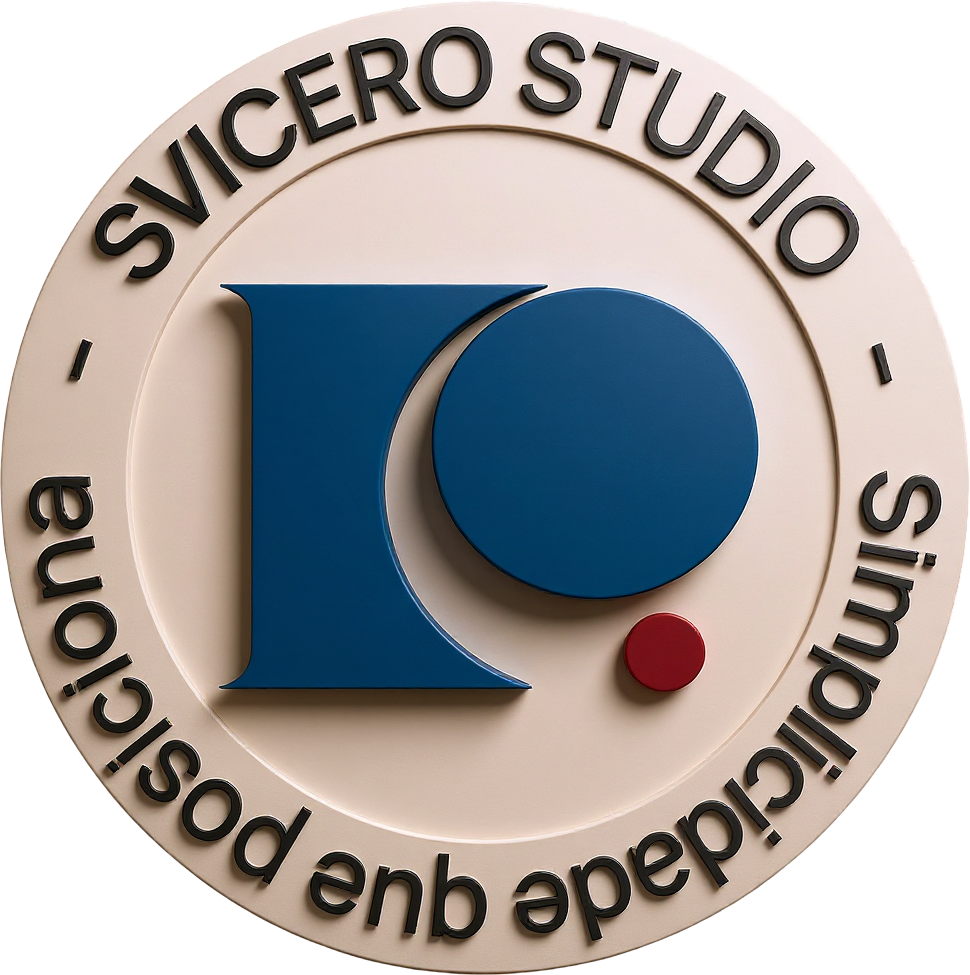
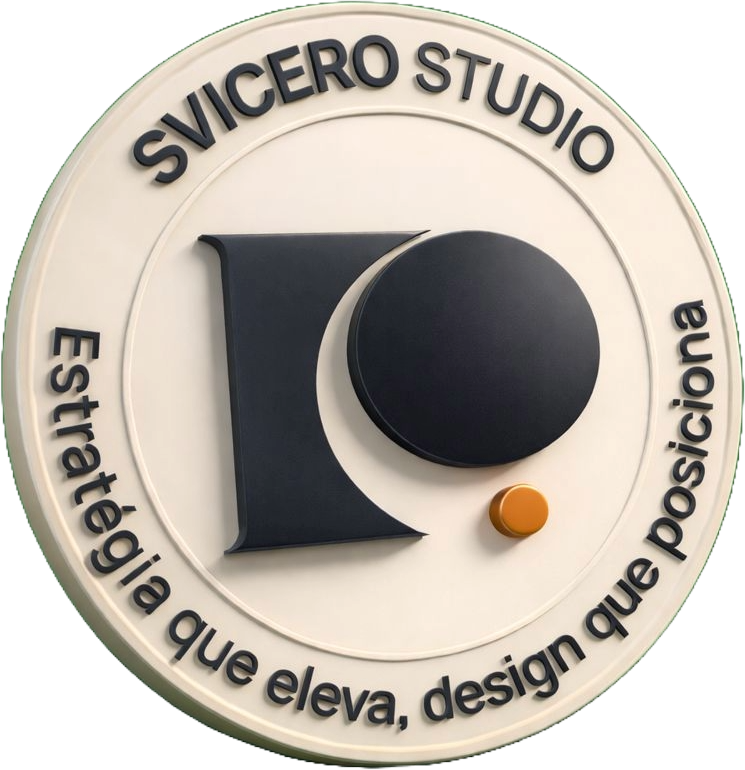
feat: add Diagnostico page with embedded JotForm for strategic diagnosis

diff --git a/src/pages/Home.jsx b/src/pages/Home.jsx
@@ -32,7 +32,7 @@ const Home = () => {
       alt: 'Card UI designer',
       badge: { text: 'UI & UX', className: 'ui-ux text-[15px] font-medium text-[#094C7E] bg-[#EAF4F6]' },
       title: 'Experiências fluidas que removem as barreiras entre você e seu cliente.',
-      link: '/servico-uiux-design'
+      link: '/servico-ui-design'
     },
     {
       img: developer,
@@ -292,8 +292,8 @@ const Home = () => {
             <h1 className="font-title font-extralight text-cream text-5xl md:text-6xl lg:text-7xl tracking-wide mb-6 drop-shadow-lg">O design que transforma sua autoridade <br /> em valor de mercado.</h1>
             <p className="font-sans text-cream text-xl md:text-2xl lg:text-3xl font-light tracking-wide mb-10 max-w-5xl">Unimos Branding Estratégico e UX Design para criar marcas líderes. Simplicidade que posiciona e converte.</p>
             <Button
-              href="https://wa.me/5511964932007"
-              variant="primary"
+              href="https://form.jotform.com/253516622262655"
+              variant="secondary"
               target="_blank"
               rel="noopener noreferrer"
             >Solicitar Diagnóstico de Marca</Button>
@@ -391,7 +391,7 @@ const Home = () => {
             <div className="text-center pt-8">
               <Button
                 href="https://form.jotform.com/253516622262655"
-                variant="primary"
+                variant="secondary"
                 target="_blank"
                 className="inline-block mt-8"
               >
@@ -494,11 +494,13 @@ const Home = () => {
             </div>
             <div className="flex justify-center mt-8">
               <Button
-                href="/agenda"
+                href="https://form.jotform.com/253516622262655"
                 variant="secondary"
-                icon={<i className="fa-regular fa-calendar"></i>}
-                className="mb-16 px-8 py-4 text-lg w-full lg:w-[40%]"
-              >Agendar Conversa</Button>
+                className="inline-block mt-8"
+                target="_blank"
+                rel="noopener noreferrer"
+              >Solicitar Diagnóstico Estratégico
+              </Button>
             </div>
           </div>
         </section>
@@ -543,7 +545,7 @@ const Home = () => {
         )}
 
         {/* CTA Final */}
-        <section className="w-full bg-primary overflow-hidden">
+        <section className="w-full bg-secondary overflow-hidden">
           <div className="max-w-screen-xl mx-auto flex flex-col md:flex-row items-stretch">
             {/* Imagem - aparece primeiro em mobile */}
             <div className="w-full md:w-1/2 order-1 md:order-2">
@@ -560,7 +562,7 @@ const Home = () => {
               <Button
                 href="https://form.jotform.com/253516622262655"
                 variant="custom"
-                className="border-2 border-cream text-cream hover:text-primary transition-colors inline-block mt-8"
+                className="border-2 border-cream text-cream hover:text-secondary transition-colors inline-block mt-8"
                 target="_blank"
                 rel="noopener noreferrer"
               >Solicitar Diagnóstico Estratégico
@@ -635,7 +637,7 @@ const Home = () => {
                 <div className="text-center">
                   <Button
                     href="/blog"
-                    variant="primary"
+                    variant="secondary"
                     icon={<i className="fa-solid fa-arrow-right"></i>}
                     className="px-8 py-4 text-lg"
                   >

diff --git a/src/pages/Diagnostico.jsx b/src/pages/Diagnostico.jsx
@@ -1,0 +1,46 @@
+import React from 'react';
+import Header from '../components/Layout/Header';
+import Footer from '../components/Layout/Footer';
+
+const Diagnostico = () => {
+  return (
+    <div className="bg-cream min-h-screen">
+      <Header variant="solid" />
+      <main className="pt-28">
+        <section className="py-24 px-4 md:px-16">
+          <div className="max-w-screen-xl mx-auto">
+            <div className="flex flex-col items-center text-center">
+              <h1 className="font-title text-4xl md:text-5xl text-primary mb-8">
+                Diagnóstico Estratégico
+              </h1>
+              <p className="font-body text-lg text-secondary mb-12 max-w-3xl">
+                Preencha o formulário abaixo para receber seu diagnóstico estratégico personalizado.
+              </p>
+              <div className="w-full">
+                <iframe
+                  id="JotFormIFrame-253516622262655"
+                  title="Diagnóstico Svicero Studio"
+                  onLoad={() => window.parent.scrollTo(0,0)}
+                  allowTransparency="true"
+                  allow="geolocation; microphone; camera; fullscreen; payment"
+                  src="https://form.jotform.com/253516622262655"
+                  frameBorder="0"
+                  style={{minWidth: '100%', maxWidth: '100%', height: '539px', border: 'none'}}
+                  scrolling="no"
+                  className="rounded-xl shadow-lg"
+                />
+                <script src='https://cdn.jotfor.ms/s/umd/latest/for-form-embed-handler.js'></script>
+                <script dangerouslySetInnerHTML={{
+                  __html: `window.jotformEmbedHandler("iframe[id='JotFormIFrame-253516622262655']", "https://form.jotform.com/")`
+                }} />
+              </div>
+            </div>
+          </div>
+        </section>
+      </main>
+      <Footer />
+    </div>
+  );
+};
+
+export default Diagnostico;

diff --git a/src/components/Preloader.jsx b/src/components/Preloader.jsx
@@ -40,7 +40,7 @@ const Preloader = () => {
         </div>
 
         {/* Logo com animação */}
-        <div className="relative z-10 animate-scale-fade">
+        <div className="relative z-10 animate-elastic-grow">
           <img 
             src={logoPreloader} 
             alt="Svicero Studio" 
@@ -68,14 +68,23 @@ const Preloader = () => {
       </div>
 
       <style>{`
-        @keyframes scale-fade {
-          0%, 100% {
-            transform: scale(1);
-            opacity: 1;
+        @keyframes elastic-grow {
+          0% {
+            transform: scale(0);
+            opacity: 0;
           }
           50% {
-            transform: scale(1.05);
-            opacity: 0.9;
+            opacity: 1;
+          }
+          70% {
+            transform: scale(1.1);
+          }
+          85% {
+            transform: scale(0.95);
+          }
+          100% {
+            transform: scale(1);
+            opacity: 1;
           }
         }
 
@@ -99,8 +108,10 @@ const Preloader = () => {
           }
         }
 
-        .animate-scale-fade {
-          animation: scale-fade 2s ease-in-out infinite;
+        .animate-elastic-grow {
+          animation: elastic-grow 1.2s cubic-bezier(0.68, -0.55, 0.265, 1.55) forwards;
+          transform: scale(0);
+          opacity: 0;
         }
 
         .animate-progress {

diff --git a/src/components/Layout/Header.jsx b/src/components/Layout/Header.jsx
@@ -2,8 +2,8 @@ import React, { useState, useEffect } from 'react';
 import { useNavigate, useLocation } from 'react-router-dom';
 import Button from '../UI/Button';
 
-import logoBranco from '../../images/logo_alternativo 4.png';
-import logoAzul from '../../images/logo_alternativo 1.png';
+import logoBranco from '../../images/simbolo 3.png';
+import logoAzul from '../../images/simbolo 1.png';
 
 const Header = ({ variant = 'transparent' }) => {
   const [scrolled, setScrolled] = useState(false);
@@ -100,13 +100,13 @@ const Header = ({ variant = 'transparent' }) => {
               Blog
             </a>
             <Button
-              href="/agenda"
-              variant="secondary"
-              icon={<i className="fa-regular fa-calendar"></i>}
-              className="ml-4 px-6 py-2 text-base font-semibold"
-            >
-              Agendar Conversa
-            </Button>
+                href="https://form.jotform.com/253516622262655"
+                variant="secondary"
+                className="inline-block"
+                target="_blank"
+                rel="noopener noreferrer"
+              >Solicitar Diagnóstico Estratégico
+              </Button>
           </nav>
 
           {/* Menu Mobile */}

diff --git a/src/App.jsx b/src/App.jsx
@@ -4,6 +4,7 @@ import { AuthProvider } from './contexts/AuthContext';
 import ProtectedRoute from './components/ProtectedRoute';
 import Home from './pages/Home';
 import Schedule from './pages/Schedule';
+import Diagnostico from './pages/Diagnostico';
 import ServiceFrontEnd from './pages/ServiceFrontEnd';
 import ServiceIdentidadeVisual from './pages/ServiceIdentidadeVisual';
 import ServiceUIUXDesign from './pages/ServiceUIUXDesign';
@@ -27,6 +28,7 @@ function App() {
           <Routes>
             <Route path="/" element={<Home />} />
           <Route path="/agenda" element={<Schedule />} />
+          <Route path="/diagnostico" element={<Diagnostico />} />
           <Route path="/servico-front-end" element={<ServiceFrontEnd />} />
           <Route path="/servico-identidade-visual" element={<ServiceIdentidadeVisual />} />
           <Route path="/servico-ui-design" element={<ServiceUIUXDesign />} />

diff --git a/src/components/UI/Card.jsx b/src/components/UI/Card.jsx
@@ -61,8 +61,8 @@ Card.Actions = ({ children, className = '' }) => (
 
 Card.Button = ({ children, href, variant = 'outline', className = '' }) => {
   const variantClasses = {
-    outline: 'border-2 border-primary text-cream hover:bg-primary hover:border-primary',
-    filled: 'bg-primary text-cream hover:bg-primary/80',
+    outline: 'border-2 border-primary text-cream hover:bg-secondary hover:border-secondary',
+    filled: 'bg-primary text-cream hover:bg-secondary/80',
   };
   return (
     <a

diff --git a/src/components/UI/Button.jsx b/src/components/UI/Button.jsx
@@ -74,7 +74,7 @@ const Button = ({
 
   // Cor do preenchimento animado
   let fillColor = '#042C5A'; // primary
-  if (variant === 'secondary') fillColor = '#5C0028'; // secondary
+  if (variant === 'secondary') fillColor = '#844219'; // secondary
   else if (variant === 'outline') fillColor = '#FFF8F0'; // cream
   else if (variant === 'custom') fillColor = '#FFF8F0'; // cream
   

diff --git a/tailwind.config.js b/tailwind.config.js
@@ -7,9 +7,9 @@ export default {
   theme: {
     extend: {
       colors: {
-        primary: '#094C7E',
-        secondary: '#800020',
-        secondary300: '#D8565E',
+        primary: '#2F353B',
+        secondary: '#B87333',
+        secondary300: '#E9BF84',
         cream: '#FFF8F0',
         'dark-bg': '#050505',
         'dark-gray': '#1a1a1a',
